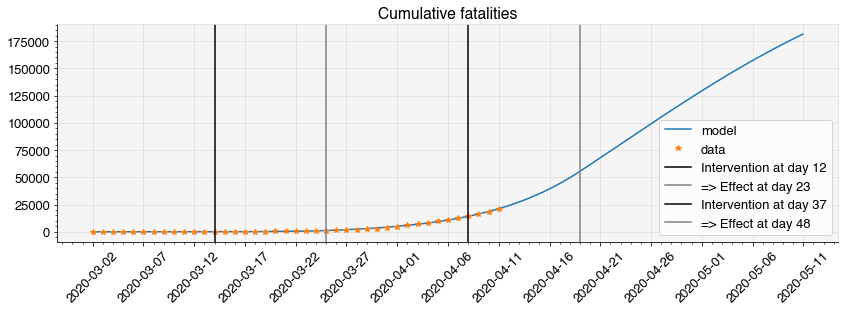
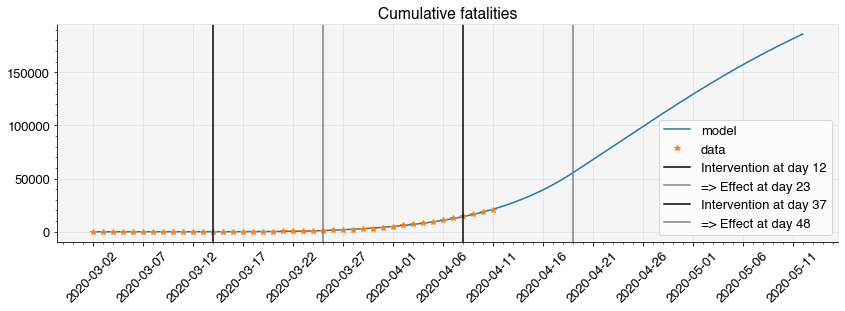
weekly crontab backup

diff --git a/01 - Daily_Report_Spain.md b/01 - Daily_Report_Spain.md
@@ -20,14 +20,14 @@ from ne_epidemic.utilities import sir_prediction_from_country
 sir_prediction_from_country('Spain')
 ```
 
-    Today's date: 2020-04-11 
+    Today's date: 2020-04-12 
     
     Country:  Spain
     - UCI database:  https://raw.githubusercontent.com/datadista/datasets/master/COVID%2019/ccaa_camas_uci_2017.csv
     - Total UCI beds:  4404
     - Fatalities database:  https://raw.githubusercontent.com/CSSEGISandData/COVID-19/master/csse_covid_19_data/csse_covid_19_time_series/time_series_covid19_deaths_global.csv
     - First day with more than 5 casualties (m/d/y):  3 / 7 / 2020
-    - Days since first fatalities:  35
+    - Days since first fatalities:  36
 
 
 
@@ -44,26 +44,27 @@ sir_prediction_from_country('Spain')
     
     Model Initial parameters:
     - Initial simulation day is March:  2020-03-07
-    - Infection to death latency (days):  11
+    - Infection to death latency (days):  12
     
     Intervention list:
-    day since start simulation: 7  => beta reduction factor: 0.54
-    day since start simulation: 24  => beta reduction factor: 0.48
+    day since start simulation: 7  => beta reduction factor: 0.48
+    day since start simulation: 24  => beta reduction factor: 0.22
+    day since start simulation: 37  => beta reduction factor: 0.48
     
     Fitting parameters N0 and beta
-    Initial loss: 43456
+    Initial loss: 45850
     Optimization terminated successfully.
-             Current function value: 856.828475
-             Iterations: 68
-             Function evaluations: 134
+             Current function value: 461.253860
+             Iterations: 76
+             Function evaluations: 147
     Estimated parameters:
-    N0: 39528
-    beta0 (contacts per day): 0.42
-    R0: 2.12
+    N0: 32402
+    beta0 (contacts per day): 0.43
+    R0: 2.17
     
-    Final loss: 856
-    Initial/Final % loss: 1.97
-    Normalized Loss (per million persons, per day) 0.51 
+    Final loss: 461
+    Initial/Final % loss: 1.01
+    Normalized Loss (per million persons, per day) 0.275 
     
     
     _____________________________________________________________________
@@ -72,33 +73,34 @@ sir_prediction_from_country('Spain')
     
     Model name: optimized 2 pars
     
-    Simulated days: 49.0
-    Initially infected/Total population (N0/N): 39528/46660000 (84.7 per 100,000)
+    Simulated days: 96.0
+    Initially infected/Total population (N0/N): 32402/46660000 (69.4 per 100,000)
     beta (per day): 0.4 , nu (per day): 0.2
-    1/beta (days): 2.4 , 1/nu (days): 5.0
+    1/beta (days): 2.3 , 1/nu (days): 5.0
     IFR: 0.002
-    Initial Doubling time: 3.1  days, Initial R0: 2.1
+    Initial Doubling time: 3.0  days, Initial R0: 2.2
     Interventions:
-      1/beta at day 7.0  = 4.3  days, R0 = 1.15
-      1/beta at day 24.0  = 4.9  days, R0 = 1.02
-    Latency for intervention effect on fatalities (days): 11
+      1/beta at day 7.0  = 4.8  days, R0 = 1.04
+      1/beta at day 24.0  = 10.6  days, R0 = 0.47
+      1/beta at day 37.0  = 4.8  days, R0 = 1.04
+    Latency for intervention effect on fatalities (days): 12
     Infected_to_Detected_ratio: 5
     
     
     _____________________________________________________________________
     
-    MODEL'S OUTPUTS FOR TODAY: 2020-04-11
-       Infected: 1795982 (3.8%)
-       Recovered: 8501050 (18.2%)
-       Exposed to date: 10297032 (22.1%)
-       In ICU: 5028
-       Fatalities: 17002
+    MODEL'S OUTPUTS FOR TODAY: 2020-04-12
+       Infected: 1464182 (3.1%)
+       Recovered: 8632008 (18.5%)
+       Exposed to date: 10096190 (21.6%)
+       In ICU: 4099
+       Fatalities: 17264
      
-    MEDIUM TERM FORECAST (49 days from model start date): 
-       Percent of population exposed at end simulation: 28%
-       Peak ICU admissions:  5645  on day 2020-03-30
+    MEDIUM TERM FORECAST (96 days from model start date): 
+       Percent of population exposed at end simulation: 25%
+       Peak ICU admissions:  6408  on day 2020-03-26
        (note model does not account for long ICU stays)
-       Total fatalities at end of simulation: 24386
+       Total fatalities at end of simulation: 23280
 
 
 
@@ -124,5 +126,5 @@ sir_prediction_from_country('Spain')
           The derivative of the quadratic is used to estimate doubling time and R(t).
     Rt estimated from doubling time using nu= 0.2
     
-    Run finished 2020-04-11 21:59:27.800439
+    Run finished 2020-04-12 10:31:21.553313
 

diff --git a/03 - Daily_Report_US.md b/03 - Daily_Report_US.md
@@ -18,14 +18,14 @@ from ne_epidemic.utilities import sir_prediction_from_country
 sir_prediction_from_country('US')
 ```
 
-    Today's date: 2020-04-11 
+    Today's date: 2020-04-12 
     
     Country:  US
     - UCI database:  https://sccm.org/Blog/March-2020/United-States-Resource-Availability-for-COVID-19
     - Total UCI beds:  96596
     - Fatalities database:  https://raw.githubusercontent.com/CSSEGISandData/COVID-19/master/csse_covid_19_data/csse_covid_19_time_series/time_series_covid19_deaths_global.csv
     - First day with more than 5 casualties (m/d/y):  3 / 2 / 2020
-    - Days since first fatalities:  40
+    - Days since first fatalities:  41
 
 
 
@@ -70,7 +70,7 @@ sir_prediction_from_country('US')
     
     Model name: optimized 2 pars
     
-    Simulated days: 70.0
+    Simulated days: 71.0
     Initially infected/Total population (N0/N): 761/327200000 (0.2 per 100,000)
     beta (per day): 0.5 , nu (per day): 0.2
     1/beta (days): 2.0 , 1/nu (days): 5.0
@@ -85,18 +85,18 @@ sir_prediction_from_country('US')
     
     _____________________________________________________________________
     
-    MODEL'S OUTPUTS FOR TODAY: 2020-04-11
-       Infected: 6868964 (2.1%)
-       Recovered: 10593843 (3.2%)
-       Exposed to date: 17462807 (5.3%)
-       In ICU: 17172
-       Fatalities: 21187
+    MODEL'S OUTPUTS FOR TODAY: 2020-04-12
+       Infected: 7673485 (2.3%)
+       Recovered: 12046878 (3.7%)
+       Exposed to date: 19720363 (6.0%)
+       In ICU: 19183
+       Fatalities: 24093
      
-    MEDIUM TERM FORECAST (70 days from model start date): 
+    MEDIUM TERM FORECAST (71 days from model start date): 
        Percent of population exposed at end simulation: 31%
        Peak ICU admissions:  39150  on day 2020-04-23
        (note model does not account for long ICU stays)
-       Total fatalities at end of simulation: 181489
+       Total fatalities at end of simulation: 185935
 
 
 
@@ -122,5 +122,5 @@ sir_prediction_from_country('US')
           The derivative of the quadratic is used to estimate doubling time and R(t).
     Rt estimated from doubling time using nu= 0.2
     
-    Run finished 2020-04-11 22:00:05.461915
+    Run finished 2020-04-12 10:32:03.938139
 

diff --git a/02 - Daily_Report_Italy.md b/02 - Daily_Report_Italy.md
@@ -20,12 +20,12 @@ from ne_epidemic.utilities import sir_prediction_from_country
 sir_prediction_from_country('Italy')
 ```
 
-    Today's date: 2020-04-11 
+    Today's date: 2020-04-12 
     
     Country:  Italy
     - Fatalities database:  https://raw.githubusercontent.com/CSSEGISandData/COVID-19/master/csse_covid_19_data/csse_covid_19_time_series/time_series_covid19_deaths_global.csv
     - First day with more than 5 casualties (m/d/y):  2 / 24 / 2020
-    - Days since first fatalities:  47
+    - Days since first fatalities:  48
 
 
 
@@ -71,7 +71,7 @@ sir_prediction_from_country('Italy')
     
     Model name: optimized 2 pars
     
-    Simulated days: 68.0
+    Simulated days: 69.0
     Initially infected/Total population (N0/N): 12436/60480000 (20.6 per 100,000)
     beta (per day): 0.4 , nu (per day): 0.2
     1/beta (days): 2.3 , 1/nu (days): 5.0
@@ -87,18 +87,18 @@ sir_prediction_from_country('Italy')
     
     _____________________________________________________________________
     
-    MODEL'S OUTPUTS FOR TODAY: 2020-04-11
-       Infected: 1362200 (2.3%)
-       Recovered: 11549691 (19.1%)
-       Exposed to date: 12911891 (21.3%)
-       In ICU: 1702
-       Fatalities: 19249
+    MODEL'S OUTPUTS FOR TODAY: 2020-04-12
+       Infected: 1286575 (2.1%)
+       Recovered: 11814509 (19.5%)
+       Exposed to date: 13101084 (21.7%)
+       In ICU: 1608
+       Fatalities: 19690
      
-    MEDIUM TERM FORECAST (68 days from model start date): 
+    MEDIUM TERM FORECAST (69 days from model start date): 
        Percent of population exposed at end simulation: 25%
        Peak ICU admissions:  3339  on day 2020-03-29
        (note model does not account for long ICU stays)
-       Total fatalities at end of simulation: 24683
+       Total fatalities at end of simulation: 24806
 
 
 
@@ -124,7 +124,7 @@ sir_prediction_from_country('Italy')
           The derivative of the quadratic is used to estimate doubling time and R(t).
     Rt estimated from doubling time using nu= 0.2
     
-    Run finished 2020-04-11 21:59:43.969379
+    Run finished 2020-04-12 10:31:39.708476
 
 
 

diff --git a/00 - Data_Overview.md b/00 - Data_Overview.md
@@ -24,7 +24,7 @@ _ = get_doubling_time(df, nu=1/5, ndays=7)
 
     - Fatalities database:  https://raw.githubusercontent.com/CSSEGISandData/COVID-19/master/csse_covid_19_data/csse_covid_19_time_series/time_series_covid19_deaths_global.csv
     - First day with more than 5 casualties (m/d/y):  3 / 7 / 2020
-    - Days since first fatalities:  35
+    - Days since first fatalities:  36
 
 
 
@@ -59,7 +59,7 @@ _ = get_doubling_time(df, nu=1/5, ndays=7)
 
     - Fatalities database:  https://raw.githubusercontent.com/CSSEGISandData/COVID-19/master/csse_covid_19_data/csse_covid_19_time_series/time_series_covid19_deaths_global.csv
     - First day with more than 5 casualties (m/d/y):  2 / 24 / 2020
-    - Days since first fatalities:  47
+    - Days since first fatalities:  48
 
 
 
@@ -94,7 +94,7 @@ _ = get_doubling_time(df, nu=1/5, ndays=7)
 
     - Fatalities database:  https://raw.githubusercontent.com/CSSEGISandData/COVID-19/master/csse_covid_19_data/csse_covid_19_time_series/time_series_covid19_deaths_global.csv
     - First day with more than 5 casualties (m/d/y):  3 / 20 / 2020
-    - Days since first fatalities:  22
+    - Days since first fatalities:  23
 
 
 
@@ -129,7 +129,7 @@ _ = get_doubling_time(df, nu=1/5, ndays=7)
 
     - Fatalities database:  https://raw.githubusercontent.com/CSSEGISandData/COVID-19/master/csse_covid_19_data/csse_covid_19_time_series/time_series_covid19_deaths_global.csv
     - First day with more than 5 casualties (m/d/y):  3 / 5 / 2020
-    - Days since first fatalities:  37
+    - Days since first fatalities:  38
 
 
 
@@ -164,7 +164,7 @@ _ = get_doubling_time(df, nu=1/5, ndays=7)
 
     - Fatalities database:  https://raw.githubusercontent.com/CSSEGISandData/COVID-19/master/csse_covid_19_data/csse_covid_19_time_series/time_series_covid19_deaths_global.csv
     - First day with more than 5 casualties (m/d/y):  3 / 2 / 2020
-    - Days since first fatalities:  40
+    - Days since first fatalities:  41
 
 
 
